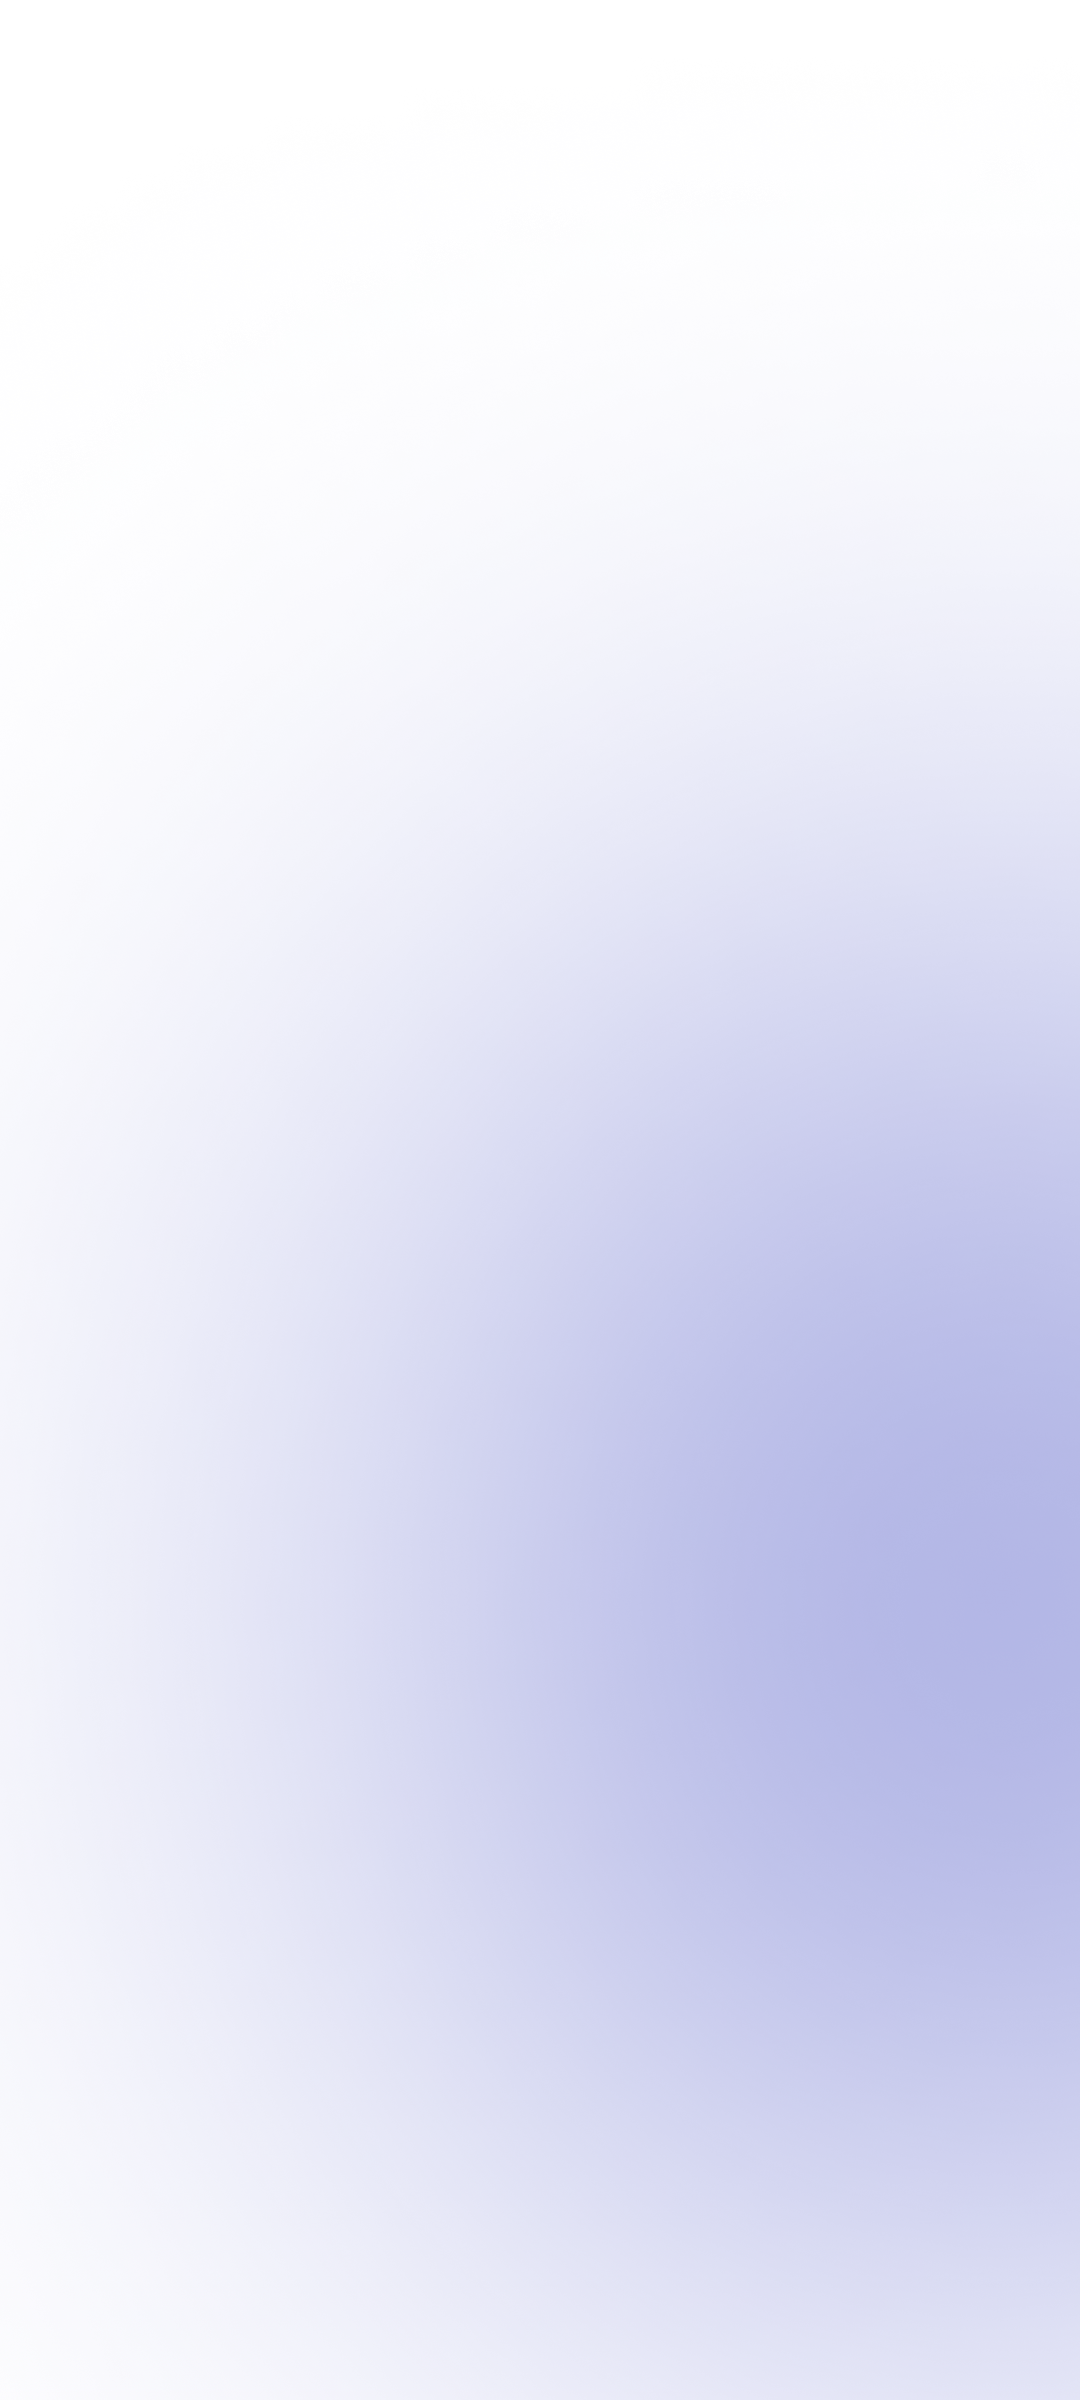
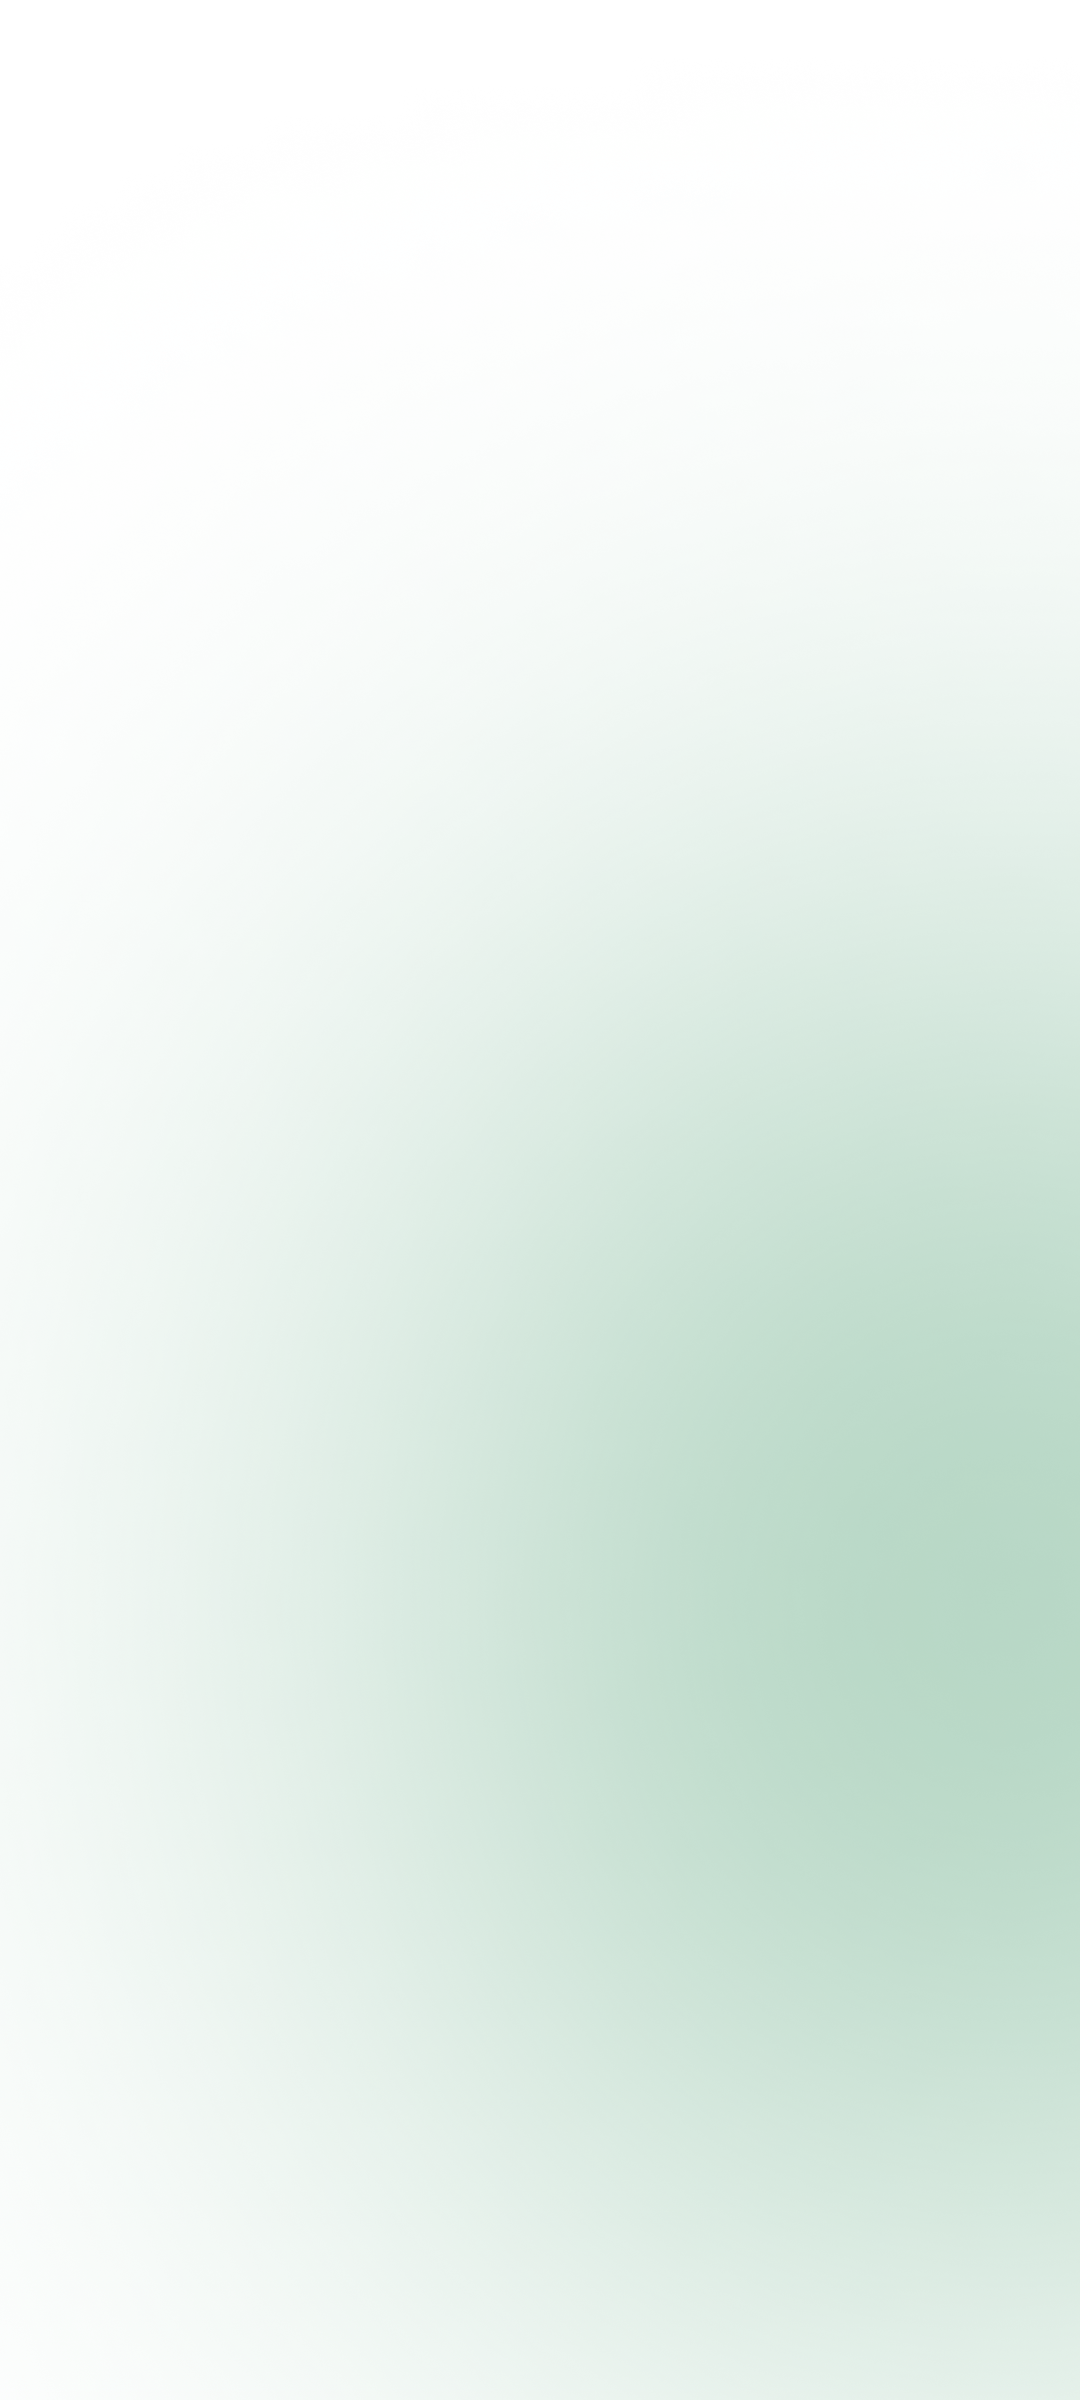
Feat: Enhance GameScreen with SelectWinner modal and player move tracking; update MidSection to trigger modal; refactor CustomButton for dynamic styling; adjust AddPlayerModel and SelectWinner components for improved UI.

Changed region(s): [[0.5194, 0.4688, 1.0, 0.875]]

diff --git a/components/Models/SelectWinner/index.tsx b/components/Models/SelectWinner/index.tsx
@@ -1,4 +1,5 @@
 import CustomButton from "@/components/CustomButton";
+import CloseIcon from "@/components/icons/CloseIcon";
 import { Colors, Fonts } from "@/constants/theme";
 import { useAppSelector } from "@/hooks/useStore";
 import { rf, rh, rw } from "@/utils/dimensions";
@@ -7,28 +8,52 @@ import React, { memo } from "react";
 import { Modal, StyleSheet, Text, TouchableOpacity, View } from "react-native";
 import { Portal } from "react-native-paper";
 
-function SelectWinner() {
+function SelectWinner({
+  isSelectWin,
+  closeSelectModel,
+}: {
+  isSelectWin: boolean;
+  closeSelectModel: () => void;
+}) {
   const { players, player1Index, player2Index } = useAppSelector(
     (state) => state.AppReducer
   );
   return (
     <Portal>
-      <BlurView
-        style={styles.blur}
-        intensity={500}
-        tint="systemChromeMaterialDark"
-      />
-      <Modal animationType="slide" transparent visible={true}>
+      {isSelectWin && (
+        <BlurView
+          style={styles.blur}
+          intensity={500}
+          tint="systemChromeMaterialDark"
+        />
+      )}
+      <Modal animationType="slide" transparent visible={isSelectWin}>
         <View style={styles.contant}>
           <View style={styles.box}>
-            <Text style={styles.mainLabel}></Text>
+            <Text style={styles.mainLabel}>اختر الفائز ؟</Text>
             <View style={styles.btnsContainer}>
-              <CustomButton label="العوده " type={1} />
+              <CustomButton
+                color={"#fff"}
+                colorTxt="#000"
+                label={players[player1Index].name}
+                type={3}
+              />
 
-              <CustomButton label="اعاده المباراه" type={2} />
+              <CustomButton label="تعادل" type={4} />
+              <CustomButton
+                color="#000"
+                colorTxt="#fff"
+                label={players[player2Index].name}
+                type={5}
+              />
             </View>
 
-            <TouchableOpacity style={styles.closeBtn}></TouchableOpacity>
+            <TouchableOpacity
+              onPress={closeSelectModel}
+              style={styles.closeBtn}
+            >
+              <CloseIcon color={"#fff"} />
+            </TouchableOpacity>
           </View>
         </View>
       </Modal>
@@ -43,8 +68,8 @@ const styles = StyleSheet.create({
     alignItems: "center",
   },
   box: {
-    width: rw(300),
-    height: rh(200),
+    width: rw(250),
+    height: rh(420),
     borderRadius: rw(20),
     backgroundColor: Colors.bannaer,
     paddingLeft: rw(9),
@@ -54,8 +79,7 @@ const styles = StyleSheet.create({
     justifyContent: "space-between",
   },
   closeBtn: {
-    alignSelf: "flex-end",
-    paddingTop: rh(5),
+    paddingTop: rh(50),
   },
   blur: {
     flex: 1,
@@ -74,8 +98,9 @@ const styles = StyleSheet.create({
     color: Colors.primaryText,
   },
   btnsContainer: {
-    flexDirection: "row",
-    gap: rw(10),
+    flexDirection: "column",
+    gap: rw(36),
+    paddingTop: rh(15),
   },
 });
 

diff --git a/app/(Screens)/GameScreen.tsx b/app/(Screens)/GameScreen.tsx
@@ -5,11 +5,12 @@ import WiningModel from "@/components/Models/WiningModel";
 import { useAppDispatch, useAppSelector } from "@/hooks/useStore";
 import { gameOver } from "@/lib/store/AppSlice";
 import { restartGame, subTime } from "@/lib/store/GameSlice";
-import React, { useEffect } from "react";
+import React, { useCallback, useEffect, useState } from "react";
 import { StyleSheet, View } from "react-native";
 
 export default function GameScreen() {
   const dispatch = useAppDispatch();
+
   const { players, player1Index, player2Index } = useAppSelector(
     (state) => state.AppReducer
   );
@@ -21,6 +22,15 @@ export default function GameScreen() {
     player1Moves,
     player2Moves,
   } = useAppSelector((state) => state.GameReducer);
+
+  const [isSelectWin, setSelectWin] = useState(false);
+
+  const closeSelectModel = useCallback(() => {
+    setSelectWin(false);
+  }, []);
+  const openSelectModel = useCallback(() => {
+    setSelectWin(true);
+  }, []);
 
   useEffect(() => {
     let time = 0;
@@ -62,7 +72,7 @@ export default function GameScreen() {
           statusGame={statusGame}
           moves={player2Moves}
         />
-        <MidSection statusGame={statusGame} />
+        <MidSection statusGame={statusGame} openSelectModel={openSelectModel} />
         <SideSection
           side={1}
           player={players[player1Index]}
@@ -77,7 +87,10 @@ export default function GameScreen() {
           statusGame === "winP1" || statusGame === "winP2" ? statusGame : null
         }
       />
-      <SelectWinner />
+      <SelectWinner
+        isSelectWin={isSelectWin}
+        closeSelectModel={closeSelectModel}
+      />
     </>
   );
 }

diff --git a/constants/theme.ts b/constants/theme.ts
@@ -7,15 +7,19 @@ export const Fonts = {
 
 export const Colors = {
   primaryText: "#FFFFFF",
-  secondaryText: "#00224C",
-  bg: "#000000ff",
-  winCount: "#28FB39",
-  loseCount: "#C72828",
-  startBtn: "#2e54a5ff",
-  bannaer: "#17377cff",
-  myTurnBg: "#C72828",
-  notMyTurnBg: "#989898",
-  nameBg: "#595757",
-  addBtn: "#6d67c2ff",
-  placeholder: "#A2A2A2",
+  secondaryText: "#CFE1D5", // أخضر فاتح مائل للرمادي، مريح للنظر
+
+  bg: "#050705ff", // خلفية شبه سوداء فيها لمسة خضراء خفيفة
+  winCount: "#34D399", // أخضر فوز ناعم وحديث
+  loseCount: "#E74C3C", // أحمر خفيف للتباين
+
+  startBtn: "#2E8B57", // اللون الأساسي
+  bannaer: "#244935ff", // خلفية البانر أغمق بلمسة خضراء
+  bannaer2: "#1A2E23", // خلفية البانر أغمق بلمسة خضراء
+
+  myTurnBg: "#E74C3C", // دوري الحالي
+  notMyTurnBg: "#6B7B6A", // رمادي أخضر للدور الآخر
+  nameBg: "#1F3329", // خلفية الأسماء
+  addBtn: "#2E8B57", // ذهبي بسيط للتفاعل
+  placeholder: "#AAB7A6", // نص ثانوي فاتح
 };

diff --git a/components/Game/MidSection/index.tsx b/components/Game/MidSection/index.tsx
@@ -5,7 +5,13 @@ import { rh, rw } from "@/utils/dimensions";
 import React, { memo } from "react";
 import { StyleSheet, TouchableOpacity, View } from "react-native";
 import { Icon } from "react-native-paper";
-function MidSection({ statusGame }: { statusGame: statusGame }) {
+function MidSection({
+  statusGame,
+  openSelectModel,
+}: {
+  statusGame: statusGame;
+  openSelectModel: () => void;
+}) {
   const iconSize = 42;
   const dispatch = useAppDispatch();
   return (
@@ -28,7 +34,12 @@ function MidSection({ statusGame }: { statusGame: statusGame }) {
           <Icon source={"play"} size={rw(iconSize)} />
         </TouchableOpacity>
       )}
-      <TouchableOpacity onPress={() => dispatch(restartGame())}>
+      <TouchableOpacity
+        onPress={() => {
+          statusGame === "playing" && dispatch(setStatusGame("pause"));
+          openSelectModel();
+        }}
+      >
         <Icon source={"progress-check"} size={rw(iconSize)} />
       </TouchableOpacity>
       <Icon source={"timer-cog-outline"} size={rw(iconSize)} />

diff --git a/components/icons/CloseIcon.tsx b/components/icons/CloseIcon.tsx
@@ -4,7 +4,7 @@ import Svg, { Path, SvgProps } from "react-native-svg";
 const CloseIcon = (props: SvgProps) => (
   <Svg width={24} height={24} viewBox="0 0 24 24" fill="none" {...props}>
     <Path
-      fill="#131212"
+      fill={props.color}
       fillRule="evenodd"
       d="m8.476 19.14-.012.002-.07.035-.02.005-.014-.005-.071-.035c-.011-.003-.02-.001-.024.006l-.005.01-.017.427.005.02.01.014.105.073.014.005.012-.005.104-.073.012-.017.004-.017-.017-.427c-.002-.01-.008-.016-.017-.018Zm.264-.113-.013.002-.184.093-.01.01-.003.011.018.43.005.012.007.008.201.093c.013.003.023 0 .03-.009l.003-.014-.034-.614c-.003-.011-.01-.019-.02-.021Zm-.715.002a.02.02 0 0 0-.027.006l-.006.014-.034.614c.001.012.007.02.018.024l.014-.002.201-.092.01-.009.005-.01.017-.43-.004-.012-.01-.01-.184-.093ZM7.882 10.004l5.303 5.303a1.5 1.5 0 0 0 2.122-2.122l-5.305-5.303 5.304-5.303A1.5 1.5 0 0 0 13.184.46L7.882 5.76 2.58.458a1.5 1.5 0 1 0-2.122 2.12l5.305 5.304-5.304 5.304a1.5 1.5 0 1 0 2.122 2.12l5.302-5.302Z"
       clipRule="evenodd"

diff --git a/components/CustomButton/index.tsx b/components/CustomButton/index.tsx
@@ -9,9 +9,13 @@ import { StyleSheet, Text, TouchableOpacity } from "react-native";
 function CustomButton({
   label = "Back",
   type,
+  color = "#2E8B57",
+  colorTxt = "#fff",
 }: {
   label: string;
-  type: 1 | 2;
+  type: number;
+  color?: string;
+  colorTxt?: string;
 }) {
   const router = useRouter();
   const dispatch = useAppDispatch();
@@ -24,15 +28,17 @@ function CustomButton({
     }
   };
   return (
-    <TouchableOpacity onPress={handlePress} style={styles.container}>
-      <Text style={styles.lebel}>{label}</Text>
+    <TouchableOpacity
+      onPress={handlePress}
+      style={[styles.container, { backgroundColor: color }]}
+    >
+      <Text style={[styles.lebel, { color: colorTxt }]}>{label}</Text>
     </TouchableOpacity>
   );
 }
 
 const styles = StyleSheet.create({
   container: {
-    backgroundColor: "#407BFF",
     width: rw(124),
     height: rh(49),
     borderRadius: rw(20),

diff --git a/components/Models/AddPlayerModel/index.tsx b/components/Models/AddPlayerModel/index.tsx
@@ -23,7 +23,7 @@ function AddPlayerModel({ modelAddPlayer, closeModel }: AddPlayerModelType) {
           <View style={styles.box}>
             <TouchableOpacity style={styles.closeBtn}>
               <TouchableOpacity onPress={closeModel}>
-                <CloseIcon />
+                <CloseIcon color={Colors.placeholder} />
               </TouchableOpacity>
             </TouchableOpacity>
             <NameInput closeModel={closeModel} />
@@ -44,7 +44,7 @@ const styles = StyleSheet.create({
     width: rw(346),
     height: rh(107),
     borderRadius: rw(20),
-    backgroundColor: Colors.bannaer,
+    backgroundColor: Colors.bannaer2,
     paddingLeft: rw(9),
     paddingRight: rw(13),
   },

diff --git a/components/Vs/item/index.tsx b/components/Vs/item/index.tsx
@@ -24,7 +24,7 @@ const styles = StyleSheet.create({
     width: rw(121),
     height: rh(51),
     borderRadius: rw(20),
-    backgroundColor: "#F1F3FC",
+    backgroundColor: Colors.bannaer,
     justifyContent: "center",
     alignItems: "center",
   },

diff --git a/components/Vs/index.tsx b/components/Vs/index.tsx
@@ -39,7 +39,7 @@ const styles = StyleSheet.create({
   vs: {
     fontFamily: Fonts.TajawalBlack,
     fontSize: rf(36),
-    color: "#E51B1B",
+    color: "#fff",
   },
   emptyMessContainer: {
     flex: 1,
